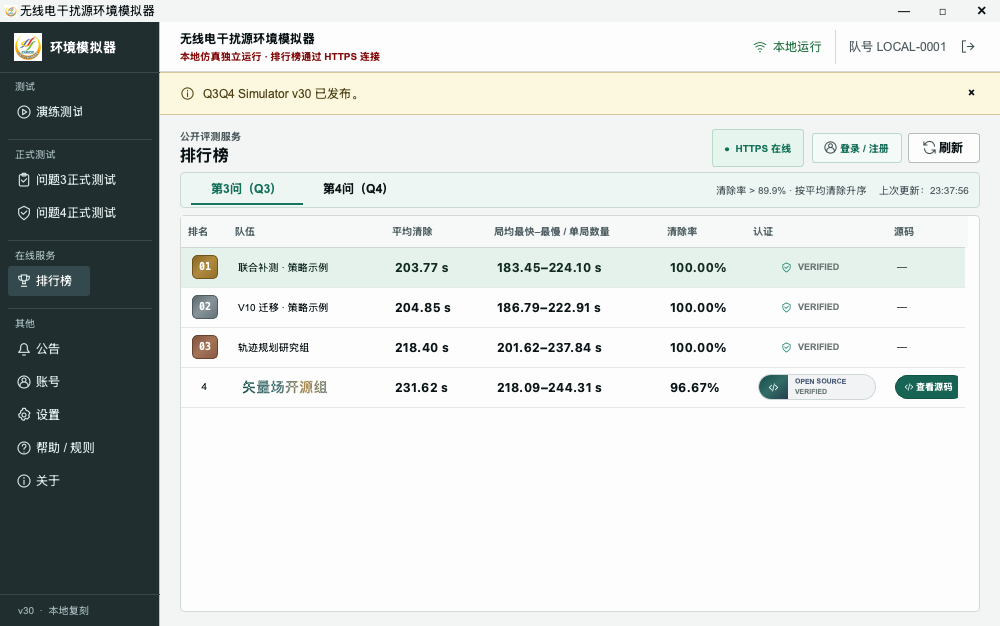
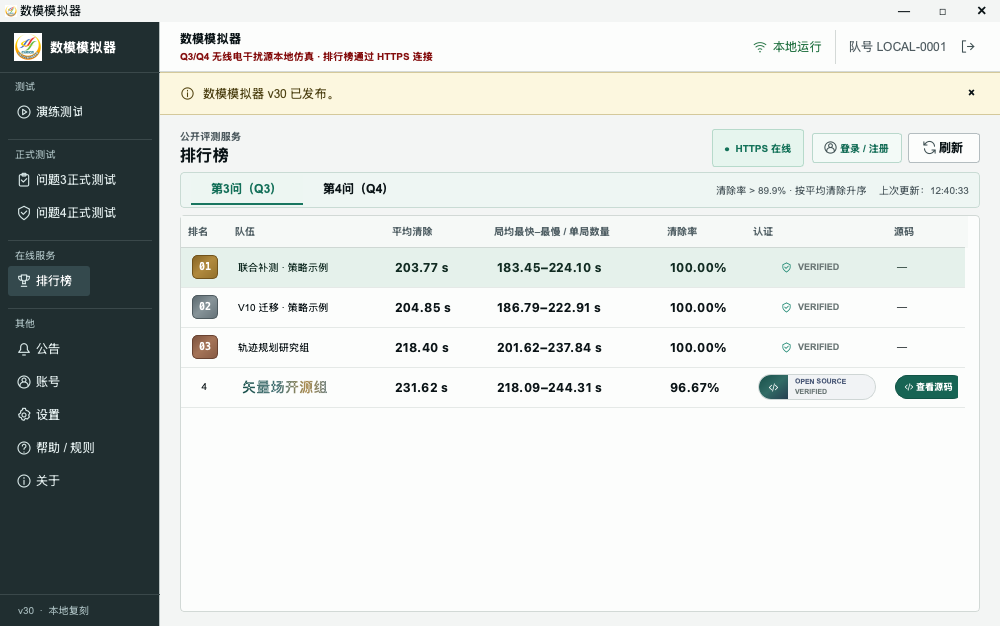
Rename desktop app to 数模模拟器

diff --git a/desktop_simulator/gui.py b/desktop_simulator/gui.py
@@ -256,7 +256,7 @@ class Nav(QWidget):
 class TitleBar(QWidget):
     def __init__(self,window):
         super().__init__();self.setObjectName('titlebar');self.setFixedHeight(22);self.window_=window
-        h=QHBoxLayout(self);h.setContentsMargins(5,0,0,0);h.setSpacing(3);h.addWidget(image_label(12));h.addWidget(label('无线电干扰源环境模拟器'));h.addStretch()
+        h=QHBoxLayout(self);h.setContentsMargins(5,0,0,0);h.setSpacing(3);h.addWidget(image_label(12));h.addWidget(label('数模模拟器'));h.addStretch()
         for text,fn in [('—',window.showMinimized),('□',self.maximize),('×',window.close)]:
             b=button(text,fn,'title',36);b.setFixedHeight(22)
             if text=='×':b.setObjectName('close');b.setStyleSheet('font-size:18px;')
@@ -506,20 +506,20 @@ class Window(QMainWindow):
         super().__init__();self.store=store;self.session=Session(store);self.service=None;self.server_error=''
         self.remote=leaderboard or LeaderboardGateway(parent=self);self.leaderboard_task='q3';self.leaderboard_rows=[];self.leaderboard_cache={};self.leaderboard_bootstrapped=False;self.leaderboard_user=None;self.leaderboard_teams=[];self.leaderboard_submissions=[];self.source_viewer=None;self.source_viewer_owner=False;self.leaderboard_auth_dialog=None;self.strategy_upload_dialog=None;self.leaderboard_error_kind=None
         self.personal_identity_pending=False
-        self.release_config={'current_version':APP_VERSION,'latest_version':APP_VERSION,'release_notes':'v30 首个公开版本。','mac_download_url':'','windows_download_url':'','announcement':'Q3Q4 Simulator v30 已发布。','feedback_url':''}
+        self.release_config={'current_version':APP_VERSION,'latest_version':APP_VERSION,'release_notes':'v30 首个公开版本。','mac_download_url':'','windows_download_url':'','announcement':'数模模拟器 v30 已发布。','feedback_url':''}
         self.current_task='q3';self.current_mode='practice';self.detail=False;self.modal=None;self.shown_completion=None;self.last_key=None;self.history_key=None
-        self.setWindowFlags(Qt.Window|Qt.FramelessWindowHint);self.setWindowTitle('Q3Q4 本地模拟器');self.resize(1000,626);self.setMinimumSize(1000,626)
+        self.setWindowFlags(Qt.Window|Qt.FramelessWindowHint);self.setWindowTitle('数模模拟器');self.resize(1000,626);self.setMinimumSize(1000,626)
         QApplication.instance().setStyle('Fusion');self.setStyleSheet(STYLE.replace('__FONT_STACK__',qt_font_stack()))
         root=QWidget();self.setCentralWidget(root);v=QVBoxLayout(root);v.setContentsMargins(0,0,0,0);v.setSpacing(0);v.addWidget(TitleBar(self))
         self.body=QWidget();self.body.setObjectName('body');v.addWidget(self.body,1);h=QHBoxLayout(self.body);h.setContentsMargins(0,0,0,0);h.setSpacing(0)
         sidebar=QWidget();sidebar.setObjectName('sidebar');sidebar.setFixedWidth(160);side=QVBoxLayout(sidebar);side.setContentsMargins(0,0,0,0);side.setSpacing(0)
-        brand=QWidget();brand.setFixedHeight(50);bh=QHBoxLayout(brand);bh.setContentsMargins(14,0,10,0);bh.setSpacing(8);bh.addWidget(image_label(28));bh.addWidget(label('环境模拟器','brand'));bh.addStretch();side.addWidget(brand)
+        brand=QWidget();brand.setFixedHeight(50);bh=QHBoxLayout(brand);bh.setContentsMargins(14,0,10,0);bh.setSpacing(8);bh.addWidget(image_label(28));bh.addWidget(label('数模模拟器','brand'));bh.addStretch();side.addWidget(brand)
         line=QFrame();line.setObjectName('separator');line.setFixedHeight(1);side.addWidget(line)
         self.nav=Nav(self.navigate);side.addWidget(self.nav,1)
         self.version_label=label('v'+display_version(APP_VERSION)+'  ·  本地复刻','version');self.version_label.setContentsMargins(16,0,0,0);self.version_label.setFixedHeight(32);self.version_label.setStyleSheet('border-top:1px solid #3a484a;');side.addWidget(self.version_label);h.addWidget(sidebar)
         right=QWidget();rv=QVBoxLayout(right);rv.setContentsMargins(0,0,0,0);rv.setSpacing(0);h.addWidget(right,1)
         header=QWidget();header.setObjectName('header');header.setFixedHeight(50);hh=QHBoxLayout(header);hh.setContentsMargins(20,8,20,8)
-        titles=QVBoxLayout();titles.setSpacing(1);titles.addWidget(label('无线电干扰源环境模拟器','headerTitle'));titles.addWidget(label('本地仿真独立运行 · 排行榜通过 HTTPS 连接','localNote'));hh.addLayout(titles);hh.addStretch()
+        titles=QVBoxLayout();titles.setSpacing(1);titles.addWidget(label('数模模拟器','headerTitle'));titles.addWidget(label('Q3/Q4 无线电干扰源本地仿真 · 排行榜通过 HTTPS 连接','localNote'));hh.addLayout(titles);hh.addStretch()
         wifi=label();wifi.setPixmap(icon('wifi','#267445',14).pixmap(14,14));hh.addWidget(wifi);local=label('本地运行');local.setStyleSheet('color:#267445');hh.addWidget(local)
         self.account_badge=label();self.account_badge.setStyleSheet('color:#4e5b60; border-left:1px solid #d4d9d7; padding-left:10px; margin-left:6px;');hh.addWidget(self.account_badge)
         hh.addWidget(button('',self.close,'icon',24,'exit'));rv.addWidget(header)
@@ -808,8 +808,8 @@ class Window(QMainWindow):
             card,cv=box('panel',(16,12,16,12));cv.addWidget(label(title,'sectionTitle'));cv.addSpacing(5);body=label(text,'muted');body.setWordWrap(True);cv.addWidget(body);v.addWidget(card);v.addSpacing(9)
         v.addStretch()
     def _about(self):
-        p,v=self.page();v.addWidget(label('环境模拟器','eyebrow'));v.addWidget(label('关于','heading'));v.addSpacing(17)
-        panel,h=box('panel',(16,16,16,16),True);h.addWidget(image_label(48));h.addSpacing(12);bv=QVBoxLayout();bv.setSpacing(3);bv.addWidget(label('无线电干扰源环境模拟器','sectionTitle'));self.about_version=label('','muted');bv.addWidget(self.about_version);bv.addWidget(label('核心 Q3_Q4_LOCAL_SIMULATOR_V1','muted'));h.addLayout(bv);h.addStretch();v.addWidget(panel);v.addStretch()
+        p,v=self.page();v.addWidget(label('数模模拟器','eyebrow'));v.addWidget(label('关于','heading'));v.addSpacing(17)
+        panel,h=box('panel',(16,16,16,16),True);h.addWidget(image_label(48));h.addSpacing(12);bv=QVBoxLayout();bv.setSpacing(3);bv.addWidget(label('数模模拟器','sectionTitle'));self.about_version=label('','muted');bv.addWidget(self.about_version);bv.addWidget(label('核心 Q3_Q4_LOCAL_SIMULATOR_V1','muted'));h.addLayout(bv);h.addStretch();v.addWidget(panel);v.addStretch()
     def navigate(self,index):
         if not hasattr(self,'pages'):return
         self.detail=False

diff --git a/app.py b/app.py
@@ -16,7 +16,7 @@ def main():
     parser.add_argument('--smoke-test', action='store_true', help='Run packaged GUI/HTTP acceptance in the specified data directory')
     args = parser.parse_args()
     app = QApplication(sys.argv[:1])
-    app.setApplicationName('Q3Q4_Simulator')
+    app.setApplicationName('数模模拟器')
     app.setOrganizationName('LocalSimulator')
     args.data_dir.mkdir(parents=True, exist_ok=True)
     lock = QLockFile(str(args.data_dir/'application.lock'))

diff --git a/README.md b/README.md
@@ -1,6 +1,6 @@
 # CUMCM 2026 数模 B 题模拟器 v30
 
-Q3/Q4 Simulator 是面向机器狗策略开发的桌面工具：本地测试使用
+数模模拟器是面向机器狗策略开发的桌面工具：本地测试使用
 `127.0.0.1:2026` HTTP 接口，排行榜与策略提交通过 HTTPS 连接。
 macOS 和 Windows 共用同一套 PySide6/Qt 界面源码。
 
@@ -11,7 +11,9 @@ macOS 和 Windows 共用同一套 PySide6/Qt 界面源码。
 已打包版本从 [GitHub Releases](https://github.com/ipsc-gummy/CUMCM-2026-B-Simulator/releases)
 下载。根据 Release 页面中实际提供的附件选择对应平台。
 
-**普通用户只下载 `Q3Q4_Simulator.dmg`。GitHub 自动生成的 `Source code` 压缩包不是可运行软件。**
+**普通用户只下载 `数模模拟器.dmg`。GitHub 自动生成的 `Source code` 压缩包不是可运行软件。**
+该源码包只含 GUI、排行榜客户端和公开接口，不含场景生成、physics、ErrorField、
+隐藏数据、replay 或服务器 evaluator。
 
 - macOS：打开 `.dmg`，将 App 拖入“应用程序”。v30 未做 Apple notarization。
 - Windows：等待 Windows 10/11 实机完成构建与验收后再加入 Release；不会用 Mac

diff --git a/RELEASE_NOTES.md b/RELEASE_NOTES.md
@@ -3,7 +3,8 @@
 首批 Release 提供 Apple Silicon macOS 版本；Windows 版本将在 Windows 10/11
 实机完成构建和验收后补充。
 
-普通用户只需下载 `Q3Q4_Simulator.dmg`；GitHub 自动生成的源码压缩包不是可运行软件。
+普通用户只需下载 `数模模拟器.dmg`；GitHub 自动生成的源码压缩包不是可运行软件。
+源码压缩包不包含 simulator core、场景生成数据或服务器评测代码。
 
 - 在 Simulator 左侧导航中集成 Q3/Q4 排行榜。
 - 加入注册、登录、个人参赛名、我的成绩和提交历史。

diff --git a/THIRD_PARTY_NOTICES.md b/THIRD_PARTY_NOTICES.md
@@ -1,4 +1,4 @@
-# Q3Q4 Simulator v30 第三方软件说明
+# 数模模拟器 v30 第三方软件说明
 
 本发行包包含或随构建使用以下第三方软件。各组件继续适用其上游许可；本说明不会改变
 这些许可，也不会为私有 simulator runtime 另行授予许可。
